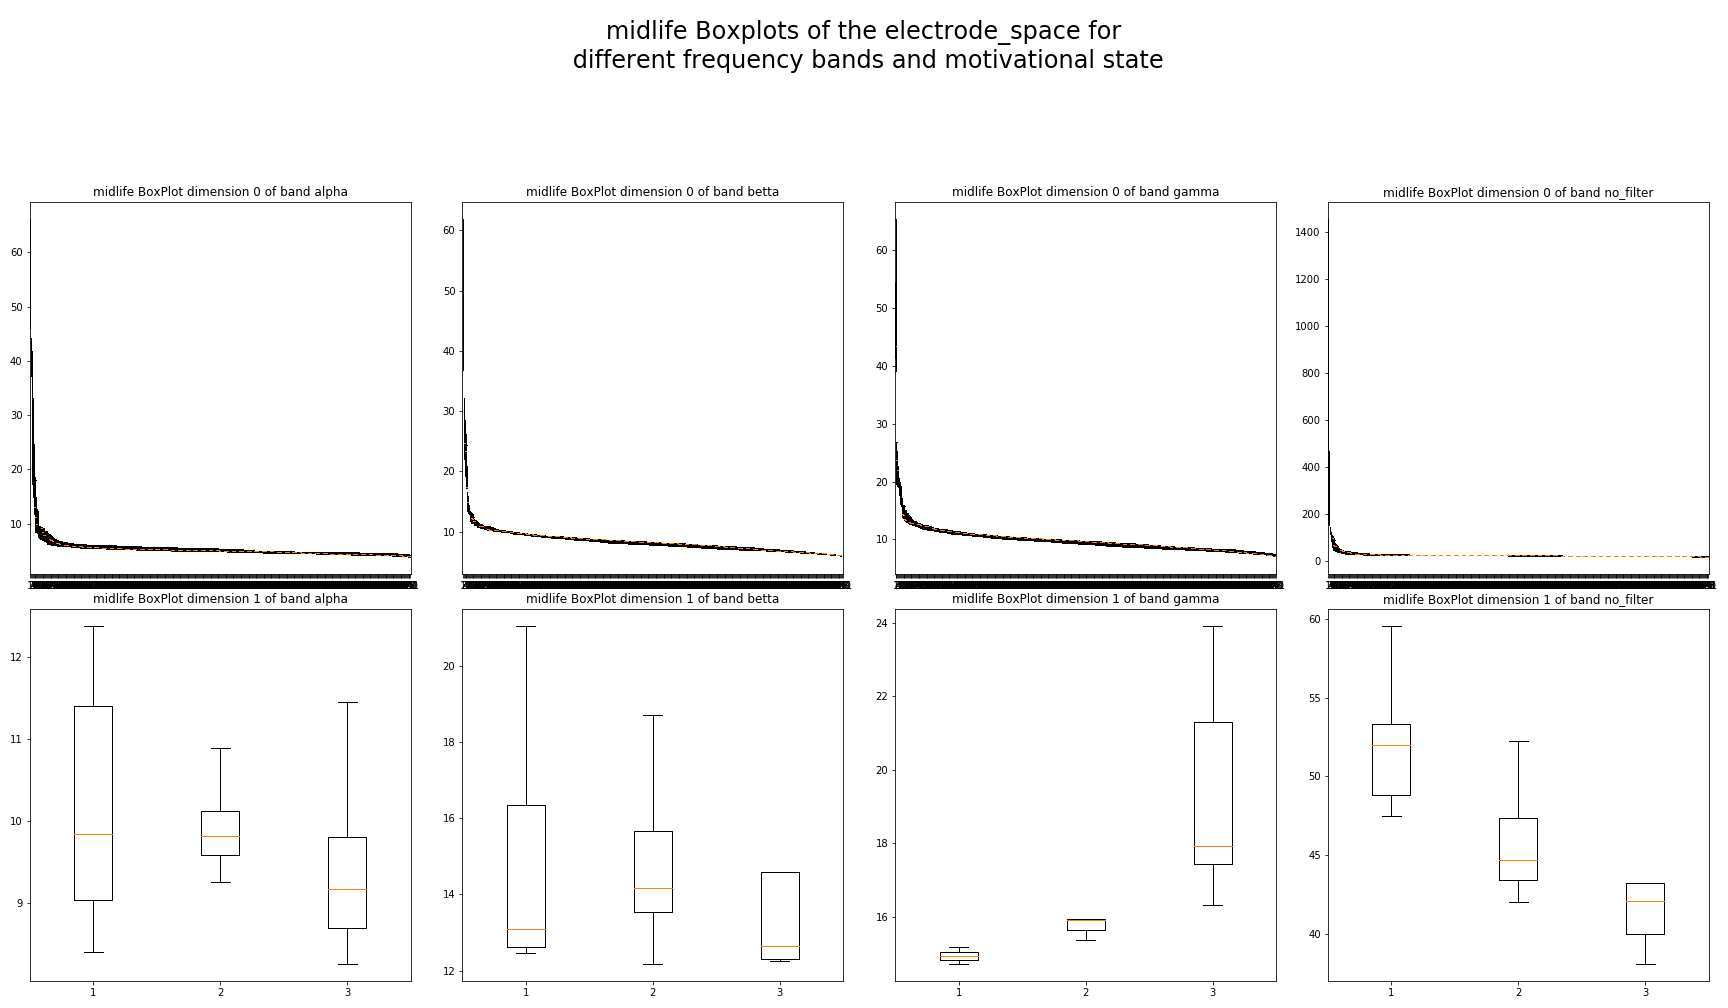
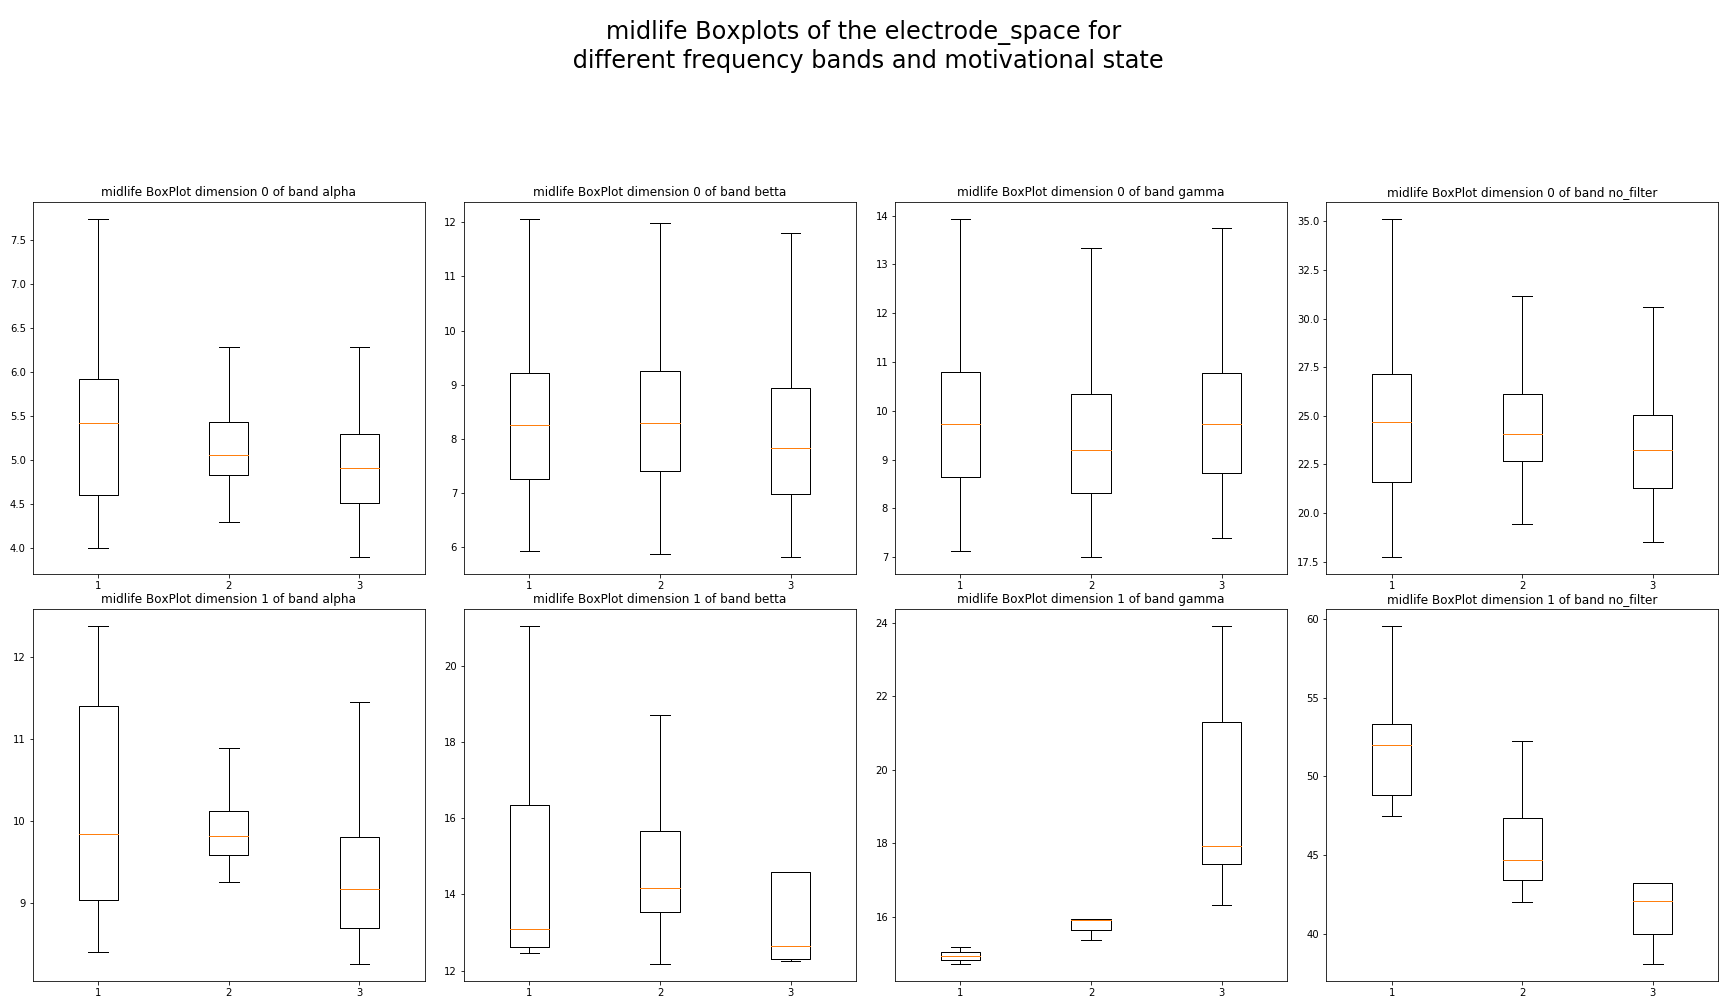
debugging

diff --git a/topological_descriptors.py b/topological_descriptors.py
@@ -86,22 +86,22 @@ def compute_basicstats(zero_dim,one_dim,subj_dir,space,measure,feat='life',pool_
         else:
             fun=lambda x: (x[1]+x[0])/2
         for j in range(3):
-            zero_lifes[i].append(np.array(list(map(fun, zero_dim[i][j]))))
-            one_lifes[i].append(np.array(list(map(fun, one_dim[i][j]))))
+            zero_lifes[i].append(np.array(list(map(fun, zero_dim[i][j])),dtype=object))
+            one_lifes[i].append(np.array(list(map(fun, one_dim[i][j])),dtype=object))
             zero_L=zero_lifes[i][j].sum()
             zero_avg_lifes.append(zero_L/len(zero_lifes[i][j]))
             one_L=one_lifes[i][j].sum()
-            one_avg_lifes.append(one_L/len(one_lifes[i][j]))
+            one_avg_lifes.append(one_L/(len(one_lifes[i][j])+1e-14))
             zero_std_lifes.append(zero_lifes[i][j].std())
             one_std_lifes.append(one_lifes[i][j].std())
             
             if feat=='life':
                 n_zero=len(zero_lifes[i][j])
                 zero_lifes[i][j].sort()
-                zero_pooling_vector[i,j]=np.array([zero_lifes[i][j][-k] if k<=n_zero else 0 for k in range(1,pool_n+1)])
+                zero_pooling_vector[i,j]=np.array([zero_lifes[i][j][-k] if k<=n_zero else 0 for k in range(1,pool_n+1)],dtype=object)
                 n_one=len(one_lifes[i][j])
                 one_lifes[i][j].sort()
-                one_pooling_vector[i,j]=np.array([one_lifes[i][j][-k] if k<=n_one else 0 for k in range(1,pool_n+1)])
+                one_pooling_vector[i,j]=np.array([one_lifes[i][j][-k] if k<=n_one else 0 for k in range(1,pool_n+1)],dtype=object)
                 zero_persistent_temp=[]
                 one_persistent_temp=[]
                 fun_entr= lambda x: ((x[1]-x[0])/L)*np.log2((x[1]-x[0])/L)
@@ -136,9 +136,12 @@ def compute_basicstats(zero_dim,one_dim,subj_dir,space,measure,feat='life',pool_
     
     fig, axes = plt.subplots(nrows=2, ncols=4, figsize=(24, 14))
     for i in range(-1,3):
-        axes[0][i].boxplot(np.array(zero_lifes[i],dtype=object ),showfliers=False)
+        for j in range(3):
+            zero_lifes[i][j]=zero_lifes[i][j].flatten()
+            one_lifes[i][j]=one_lifes[i][j].flatten()
+        axes[0][i].boxplot(zero_lifes[i],showfliers=False)
         axes[0][i].set_title(feat+' BoxPlot dimension 0 of band '+band_dic[i])
-        axes[1][i].boxplot(np.array(one_lifes[i],dtype=object ),showfliers=False)
+        axes[1][i].boxplot(np.array(one_lifes[i],dtype=object),showfliers=False)
         axes[1][i].set_title(feat+' BoxPlot dimension 1 of band '+band_dic[i])
         #a.set_xlim(-0.05,x_max)
         #a.set_ylim(0,y_max)
@@ -154,7 +157,7 @@ def compute_basicstats(zero_dim,one_dim,subj_dir,space,measure,feat='life',pool_
     pyplot.savefig(subj_dir+space+'/'+measure+'/descriptor_tables/'+feat+'_boxplots''.png')
     if feat=='life':
         pooling_table.to_csv(subj_dir+space+'/'+measure+'/descriptor_tables/pooling_vectors.csv')
-    plt.show()
+    #plt.show()
     
     return table
 

diff --git a/Main_pipeline.py b/Main_pipeline.py
@@ -49,7 +49,8 @@ if __name__ == "__main__":
     subjects=[25,26,27,28,29]
     for subject in subjects:
         t=time.time()
-        elec_space,font_space,subj_dir=load_data(subject)#,'space=electrode_space')
+        elec_space,font_space,subj_dir=load_data(subject)
+        #elec_space,subj_dir=load_data(subject,space='electrode_space')
         print('computing persistence of electrode space of subject',subject)
         elec_space_pers=compute_persistence_from_EEG(elec_space,measure='intensities',subj_dir=subj_dir,space='electrode_space',save=True) #pointcloud shape (432, 50)
         #print('computing persistence of electrode space (with correlations) of subject',subject)
